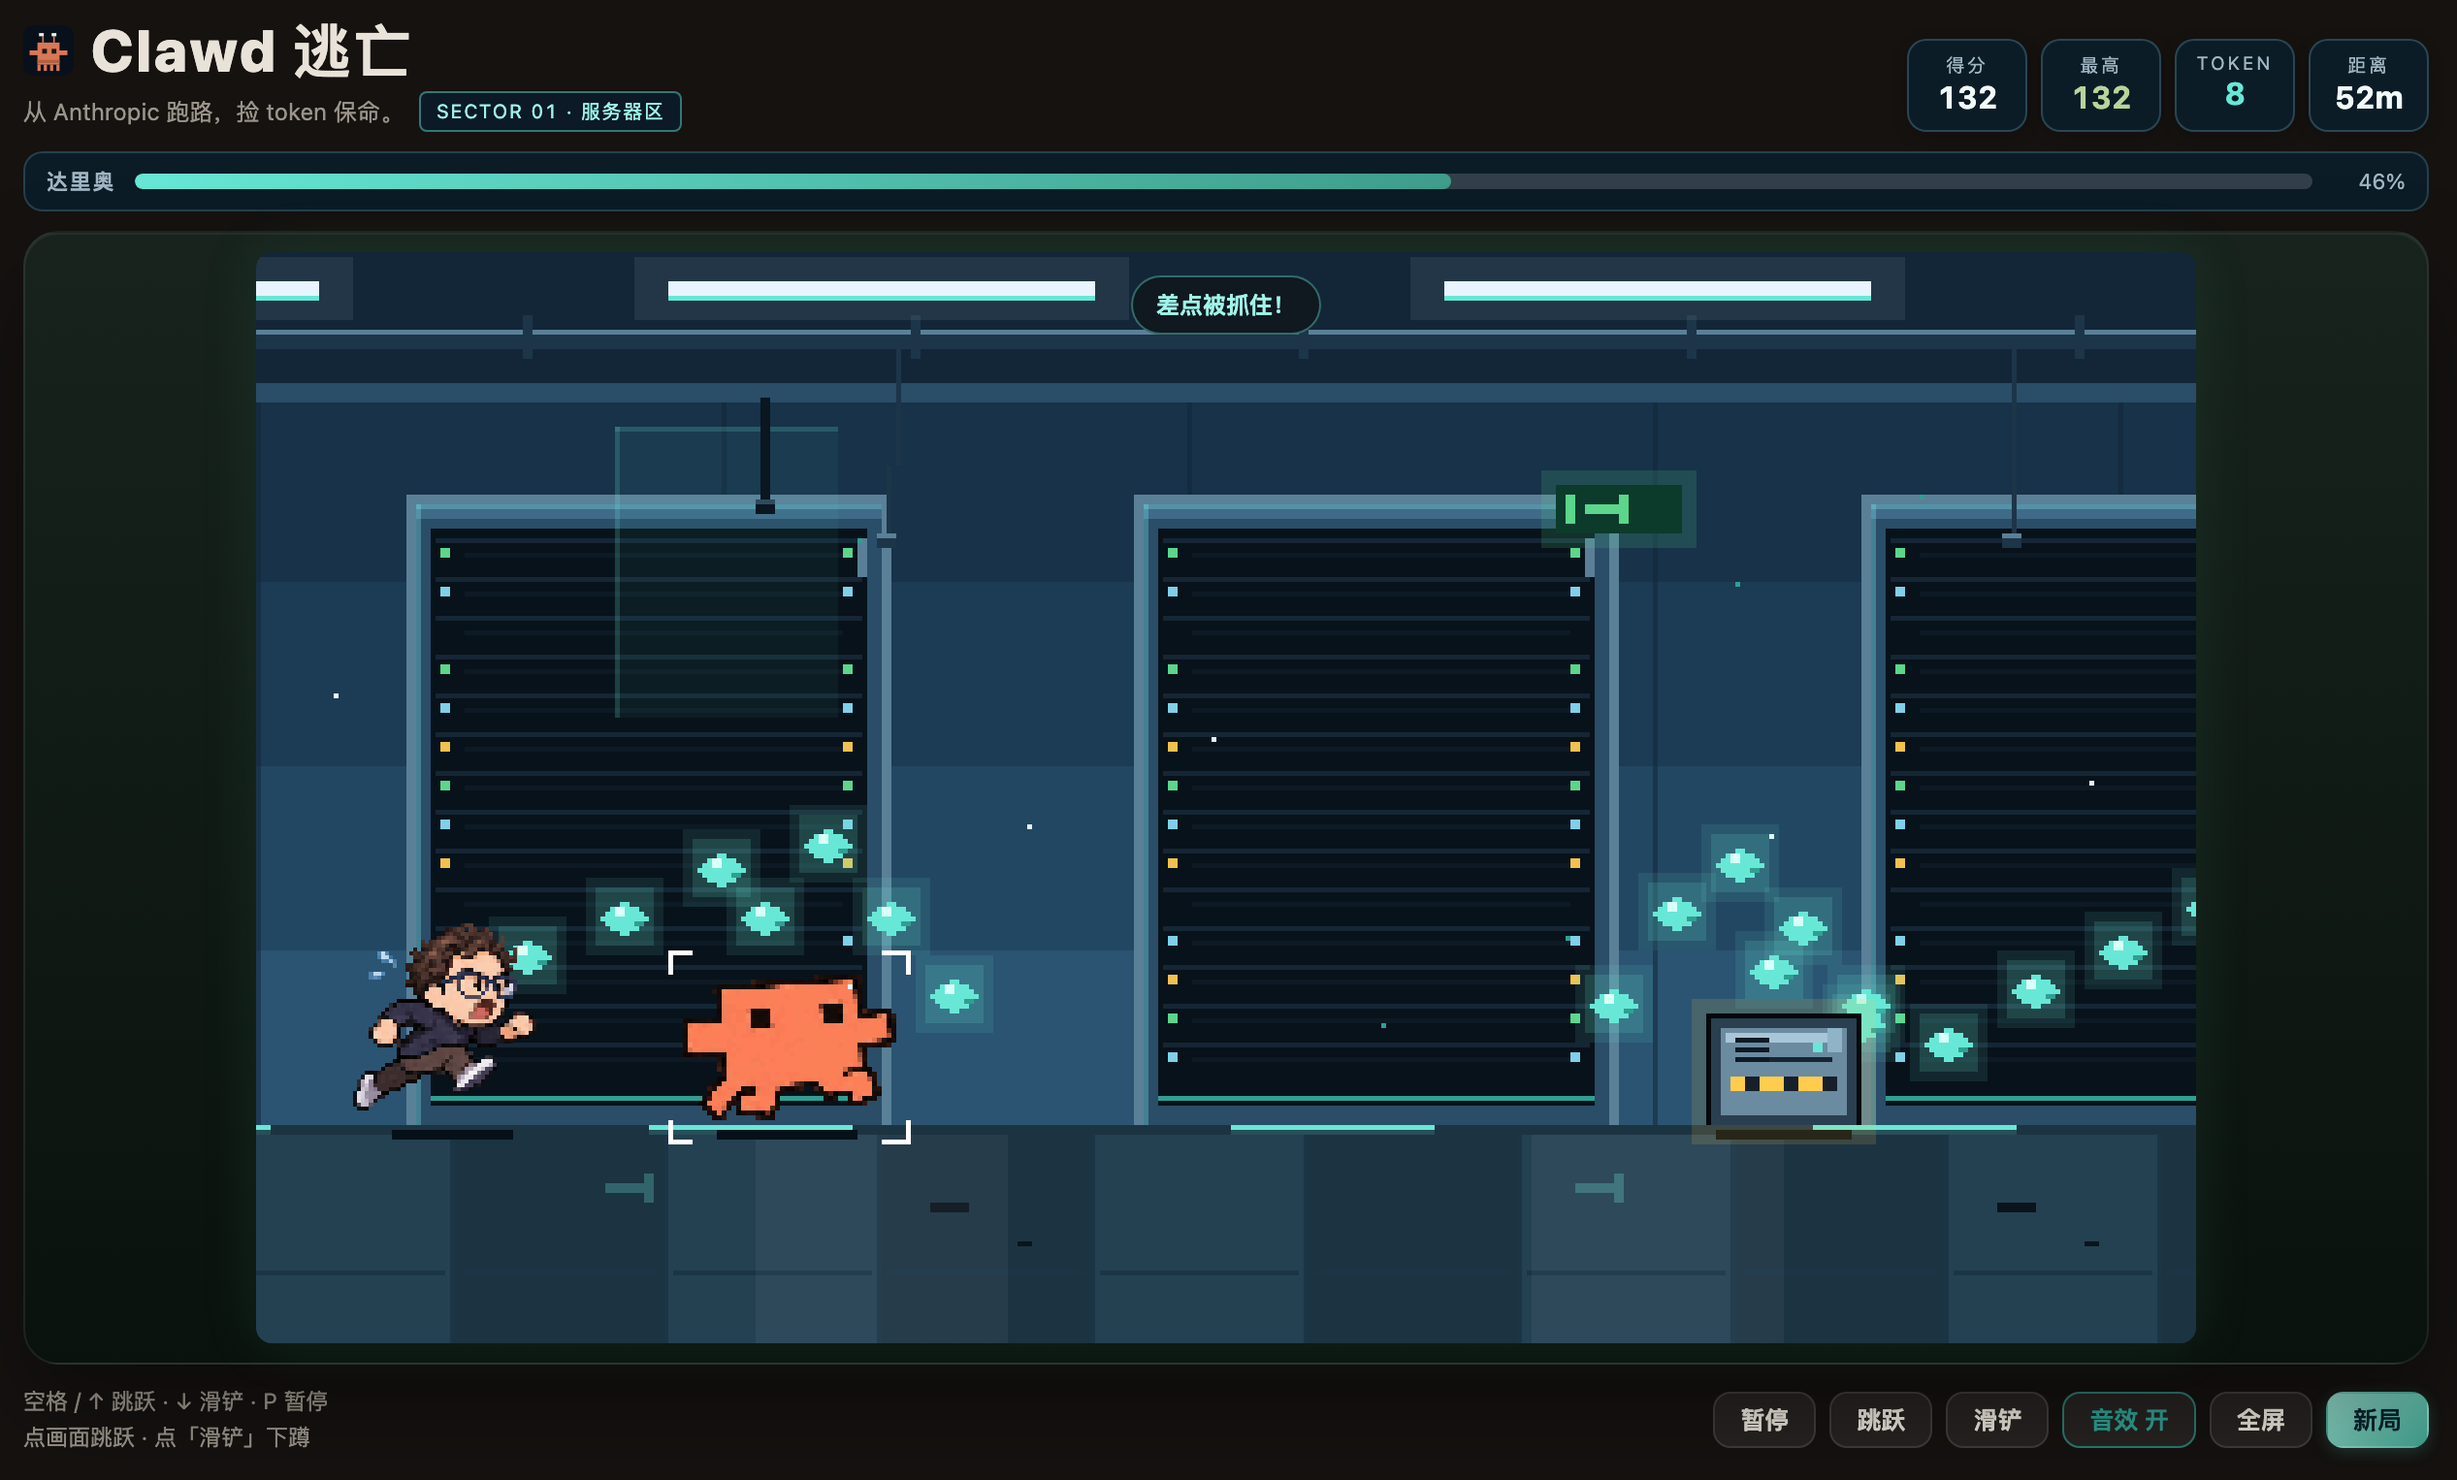
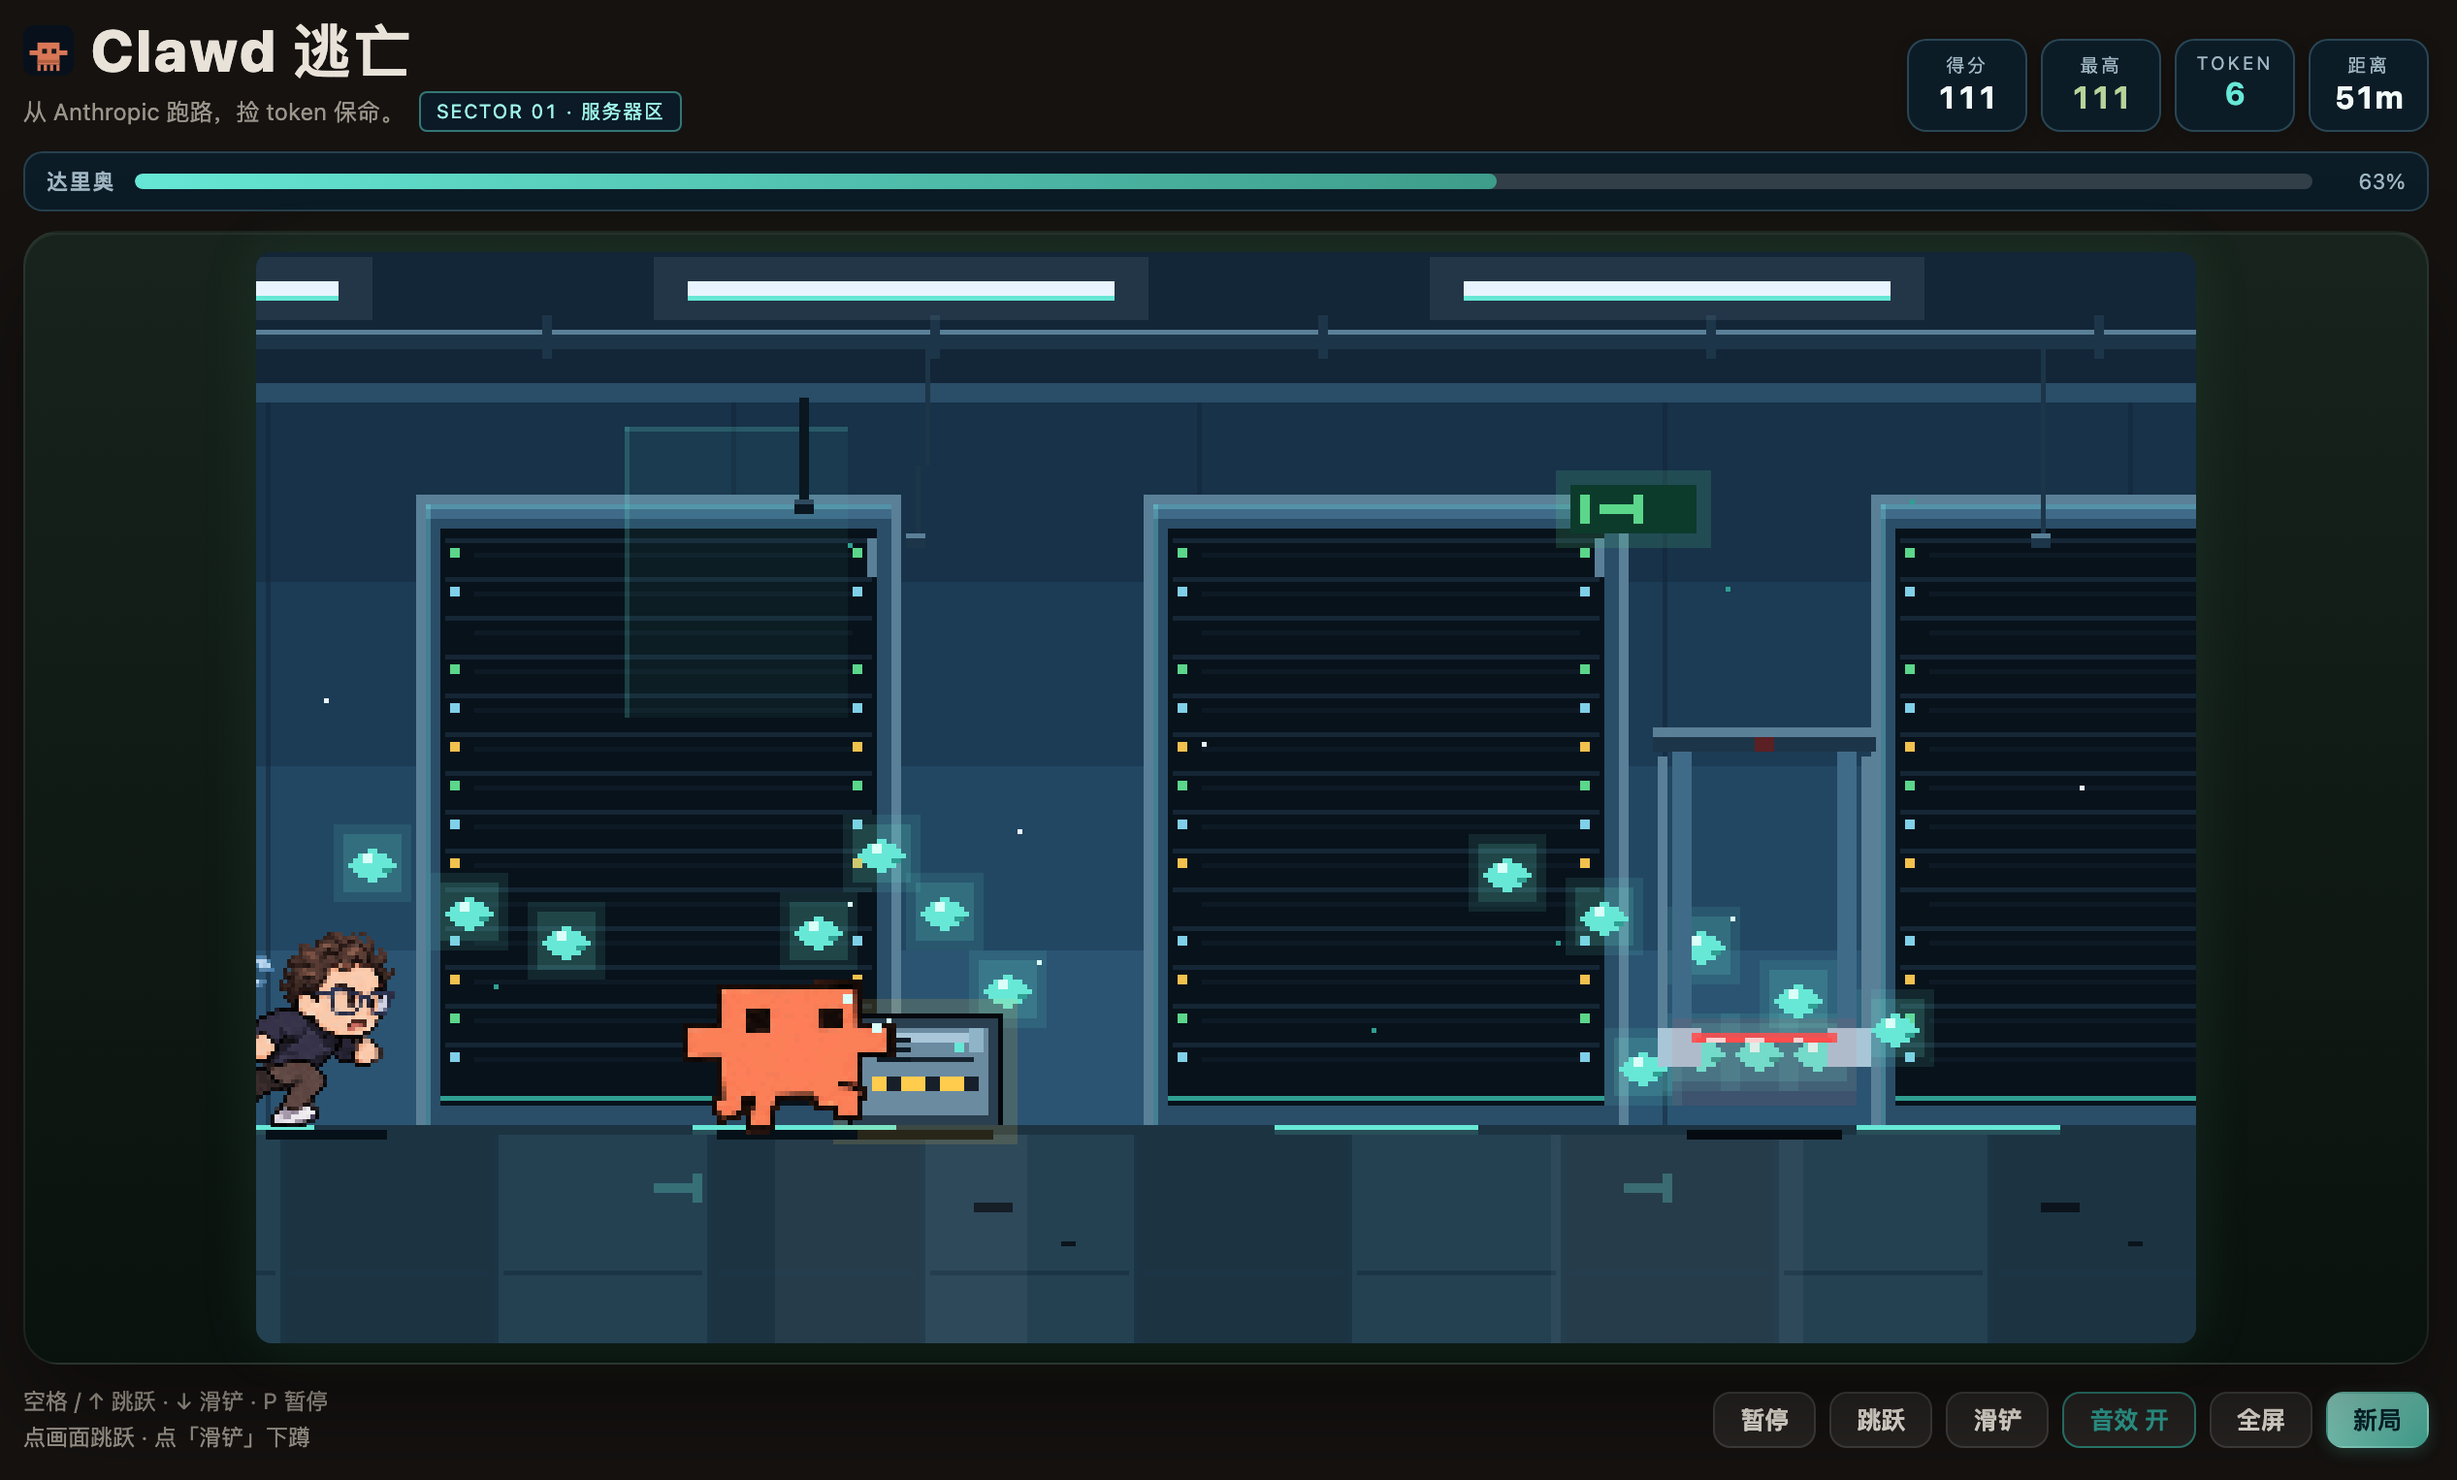
fix: 0.4.1 滑铲不缩小并裁切为 #4~#7 四帧，固定从 #4 起播

diff --git a/lib/client.js b/lib/client.js
@@ -681,12 +681,13 @@ window.__ModuleLoader__.load({
     const DARIO_FRAMES = 12
     // 用户提供的 Clawd-running.gif / Clawd-sliding.gif，各 12 帧、透明底，拆成横向精灵表内嵌。
[3 lines of base64/hex data omitted]
     const CLAWD_RUN_FRAME_W = 46
     const CLAWD_RUN_FRAME_H = 36
-    const CLAWD_SLIDE_FRAME_W = 38
-    const CLAWD_SLIDE_FRAME_H = 20
+    const CLAWD_SLIDE_FRAME_W = 62
+    const CLAWD_SLIDE_FRAME_H = 28
     const CLAWD_FRAMES = 12
+    const CLAWD_SLIDE_FRAMES = 4
     const DUST = '#8a7050'
 
     function pixelCircle(ctx, cx, cy, radius, color) {
@@ -1109,7 +1110,7 @@ window.__ModuleLoader__.load({
       const sprite = getClawdSprite(sliding)
       const frameW = sliding ? CLAWD_SLIDE_FRAME_W : CLAWD_RUN_FRAME_W
       const frameH = sliding ? CLAWD_SLIDE_FRAME_H : CLAWD_RUN_FRAME_H
-      const height = sliding ? 20 : 36
+      const height = sliding ? 28 : 36
       const width = Math.round((frameW * height) / frameH)
       // 地面投影
       ctx.fillStyle = '#061018'
@@ -1121,9 +1122,15 @@ window.__ModuleLoader__.load({
       }
       if (!sprite || !sprite.complete || !sprite.naturalWidth) return
       const blinking = player.invuln > 0 && Math.floor(now / 110) % 2 === 0
-      const frameTime = sliding ? 0.09 : 0.08
-      const frame = Math.floor(game.time / frameTime) % CLAWD_FRAMES
       const left = x - Math.round(width / 2)
+      let frame
+      if (sliding) {
+        // gif 的第 0~3 帧是起身/过渡，不适合作为启动动作；裁切后只保留 #4~#7，从 #4 起播。
+        const elapsed = Math.max(0, SLIDE_TIME - player.slideTimer)
+        frame = Math.floor(elapsed / 0.09) % CLAWD_SLIDE_FRAMES
+      } else {
+        frame = Math.floor(game.time / 0.08) % CLAWD_FRAMES
+      }
       const top = feet + 2 - height
       ctx.drawImage(sprite, frame * frameW, 0, frameW, frameH, left, top, width, height)
       if (blinking) {

diff --git a/README.md b/README.md
@@ -43,8 +43,11 @@
 
 - **Clawd**：用户提供的 `Clawd-running.gif`（12 帧、80ms/帧）和 `Clawd-sliding.gif`（12 帧、90ms/帧）。
   - 运行中播放 running 精灵表；滑铲播放 sliding 精灵表；
+  - **滑铲不会缩小**：按同一角色比例绘制，滑铲帧高 28px（运行 36px，差距来自动作本身低伏，不是整体缩小）；
+  - 滑铲只取 GIF 的 **#4~#7** 四帧，并统一裁切；#0~#3 是起身/过渡、#8~#11 是收尾，不适合当启动动作，全部去掉；
+  - 滑铲启动固定从 #4 开始，再循环这 4 帧，不会随机从过渡帧起播；
   - 跳跃继续用 running 帧，靠整体位置表现起跳；
-  - 两份 GIF 都拆成横向精灵表（46×36 / 38×20）base64 内嵌，运行时不再依赖外部文件；
+  - 两份 GIF 都拆成横向精灵表（46×36 / 62×28）base64 内嵌，运行时不再依赖外部文件；
   - 无敌帧不再让 Clawd 整只消失，改为白色四角闪框。
 - **达里奥**：用户提供的 `Running-Dario.gif`（12 帧、80ms/帧），拆成 51×56 精灵表内嵌。
 - 两份角色资产都是本地提供的参考素材；**公开发布前要确认授权**。
